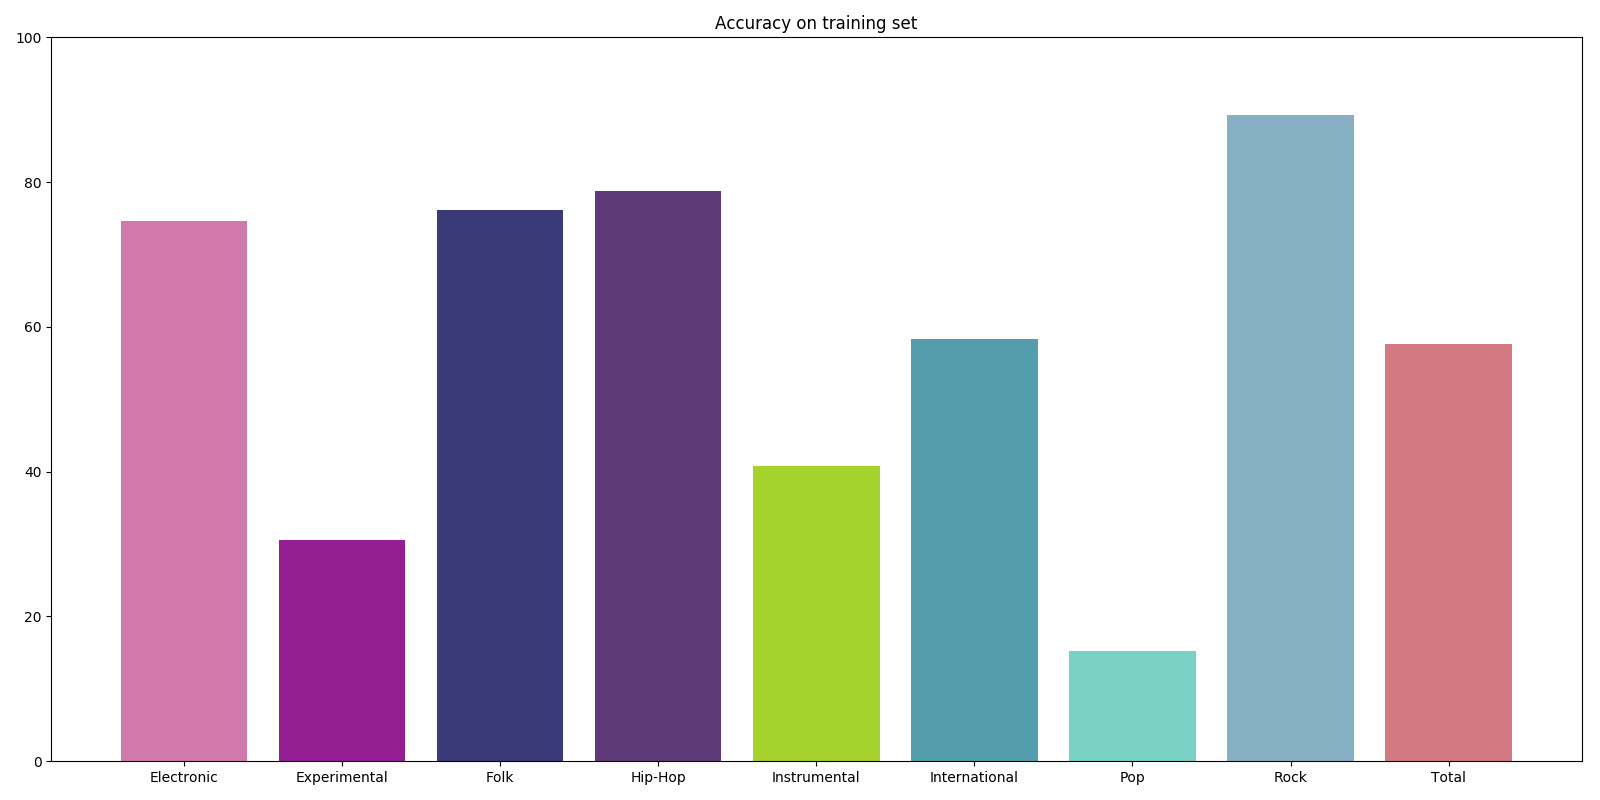
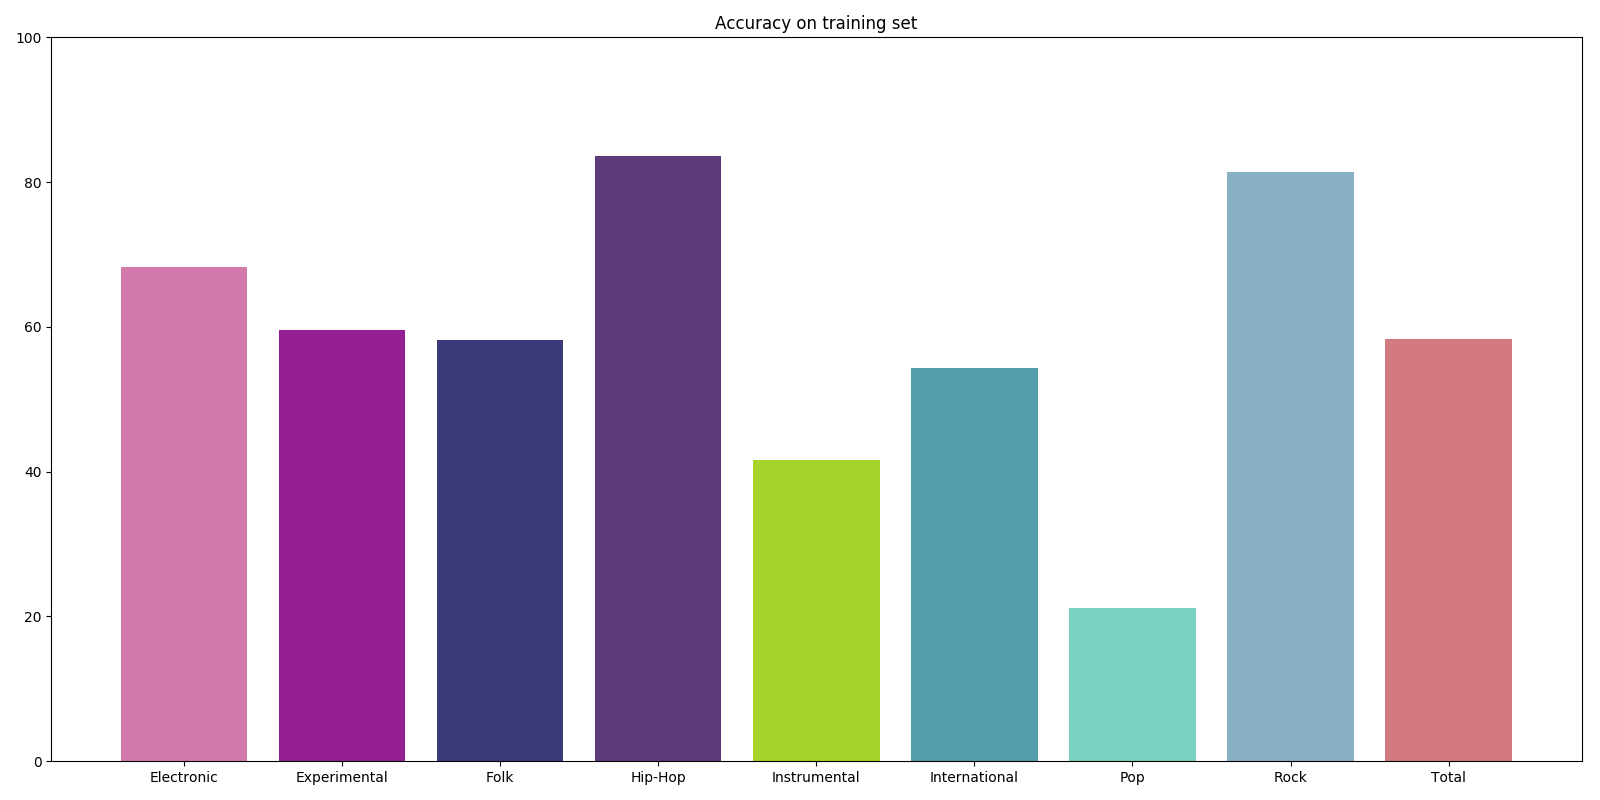
updated model accuracy

diff --git a/deep_features/eval_model.py b/deep_features/eval_model.py
@@ -2,7 +2,7 @@ print("GODDAMNITPYTHONNOTAGAIN!")
 import torch
 import torch.optim as optim
 from torch.utils.data import DataLoader
-from model import LSTM
+from model_small import LSTM
 from dataset import SoundfileDataset
 from tqdm import tqdm
 import os
@@ -11,9 +11,10 @@ import numpy as np
 from colorhash import ColorHash as cHash
 
 n_fft = 2**11
-hop_length = 2**9
+#hop_length = 2**9
+hop_length = 367
 n_mels = 128
-n_time_steps = 1290
+n_time_steps = 1800
 NORMALIZE = True
 batch_size = 1
 num_workers = 1
@@ -33,12 +34,13 @@ TLoader = DataLoader(tset, batch_size=batch_size, shuffle=False, drop_last=False
 VLoader = DataLoader(vset, batch_size=batch_size, shuffle=False, drop_last=False, num_workers=num_workers)
 
 model = LSTM(n_mels, batch_size, num_layers=n_layers)
+model.to(device)
 
-stateD = torch.load(os.path.join(modelpath, modelName), map_location=device)
+stateD = torch.load(modelName, map_location=device)
 model.load_state_dict(stateD['state_dict'])
 #print(stateD['optim'])
 #exit()
-model.to(device)
+
 model.hidden = model.init_hidden(device)
 
 model.eval()
